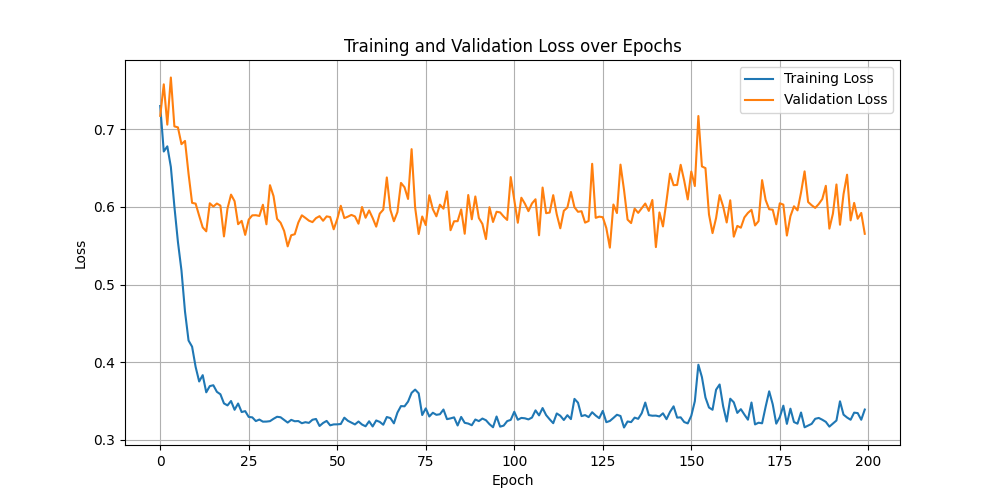
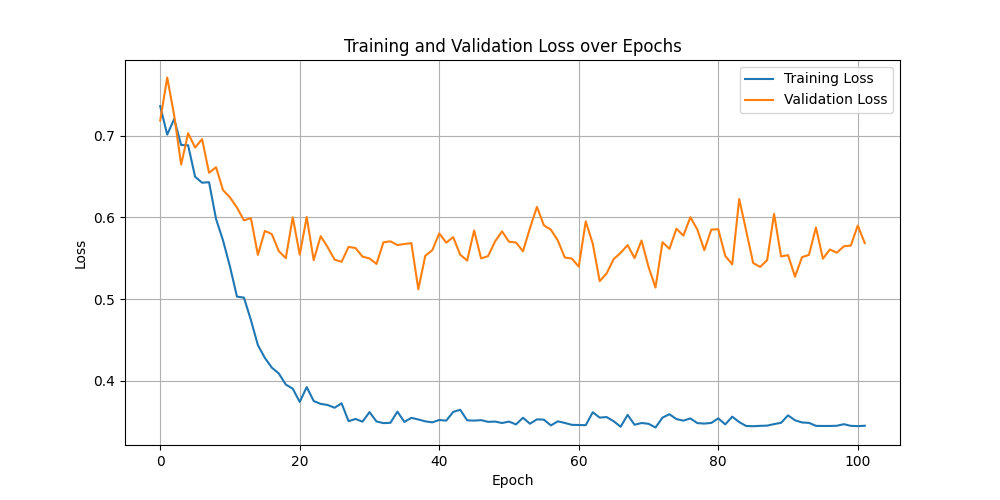
First irst commit

diff --git a/preprocess.py b/preprocess.py
@@ -9,35 +9,7 @@ from visualization import plot_ecg_segment
 
 def extractData(ann_atr, ann_qrs, ecg):
 
-    # ann.sample contains the indices of the QRS annotations
-    qrs_index = ann_qrs.sample
-    max_indices = []
-    for i in range(len(qrs_index) - 1):
-        if qrs_index[i] > len(ecg) or qrs_index[i + 1] > len(ecg):
-            break
-        start_idx = qrs_index[i]
-        end_idx = qrs_index[i + 1]
-        if start_idx < 0:
-            start_idx = 0
-        segment = ecg[start_idx:end_idx]
-        maximum_idx = np.argmax(segment)
-        max_indices.append(start_idx + maximum_idx)
     fs = 250
-    max_indices = np.array(max_indices)
- 
-# Set labels
-    ground_truth_full = np.zeros(len(ecg), dtype=int)
-    ground_truth_index = ann_atr.sample
-    for i in range(len(ground_truth_index) - 1):
-        ground_idx1 = np.searchsorted(max_indices, ground_truth_index[i], side='right')
-        ground_idx2 = np.searchsorted(max_indices, ground_truth_index[i + 1], side='right')
-        label = ann_atr.aux_note[i].replace('(', '').replace(')', '')
-        if label == 'AFIB':
-            ground_truth_full[ground_idx1:ground_idx2] = 1
-        else:
-            ground_truth_full[ground_idx1:ground_idx2] = 0
-
-    # 5 second segment
     # Define the segment length in samples (5 seconds per segment)
     segment_length = int(5 * fs)  
     # Calculate the number of segments
@@ -53,18 +25,17 @@ def extractData(ann_atr, ann_qrs, ecg):
 
         # Extract the ECG segment (both channels)
         segment = ecg[start_idx:end_idx]
-        # filter_segment = elliptical_bandpass_filter(segment)
-        temp = ground_truth_full[start_idx:end_idx]
-        label = 0
-        if np.sum(temp) >= (len(temp)/2):
-            label = 1
-            # plot_ecg_segment(segment, "AF")
-        else:
-            label = 0
-            # plot_ecg_segment(segment, "non-AF")
-            
-        all_segments.append(segment)
-        all_labels.append(label)
+        for j in range(len(ann_atr.sample)):
+            if start_idx <= ann_atr.sample[j] < end_idx:
+                label_note = ann_atr.aux_note[j][1]
+                if label_note == "N":
+                    label = 0
+                else:
+                    label = 1
+                #    print("start_idx--- atr---- end_idx---- label: ",start_idx, ann.sample[j] , end_idx,label)
+                all_segments.append(segment)
+                all_labels.append(label)
+
     return all_segments, all_labels
 
 def elliptical_bandpass_filter(segment, fs=250, order=10, lowcut=0.5, highcut=50):
@@ -208,16 +179,18 @@ def read_af_data():
     print("all_non_segments: ", len(all_non_segments))   
     total_samples = len(all_AF_labels) 
     print("total_samples: ", total_samples)       
-    # Lấy random index
-    random_indices = random.sample(range(len(all_non_labels)), total_samples)
-    # Lấy mẫu dựa trên chỉ số
-    new_non_labels = [all_non_labels[i] for i in random_indices]
-    new_non_segments = [all_non_segments [i] for i in random_indices]
-    print(" new_non_labels:  ", len(new_non_labels))
+    # # Lấy random index
+    # random_indices = random.sample(range(len(all_non_labels)), total_samples)
+    # # Lấy mẫu dựa trên chỉ số
+    # new_non_labels = [all_non_labels[i] for i in random_indices]
+    # new_non_segments = [all_non_segments [i] for i in random_indices]
+    # print(" new_non_labels:  ", len(new_non_labels))
     
-    all_segments.extend(new_non_segments)
+    # all_segments.extend(new_non_segments)
+    all_segments.extend(all_non_segments)
     all_segments.extend(all_AF_segments)
-    all_labels.extend(new_non_labels)
+    # all_labels.extend(new_non_labels)
+    all_labels.extend(all_non_labels)
     all_labels.extend(all_AF_labels)
     
     # Convert lists to NumPy arrays

diff --git a/train_model.py b/train_model.py
@@ -11,7 +11,7 @@ from torch.utils.data import DataLoader
 CHECKPOINT_DIR = "checkpoints"
 os.makedirs(CHECKPOINT_DIR, exist_ok=True)
 
-PATIENCE = 20  # Stop if training loss doesn't improve for 20 epochs
+PATIENCE = 30  # Stop if training loss doesn't improve for 20 epochs
 
 def get_latest_checkpoint():
     """Find the latest checkpoint file."""
@@ -99,10 +99,10 @@ def train_model(model, train_loader, val_loader, criterion, optimizer, num_epoch
         else:
             no_improve_epochs += 1
 
-        # # Early stopping
-        # if no_improve_epochs >= PATIENCE:
-        #     print(f"Early stopping at epoch {epoch+1}. Best model at epoch {best_epoch} with train loss {best_train_loss:.4f}.")
-        #     break
+        # Early stopping
+        if no_improve_epochs >= PATIENCE:
+            print(f"Early stopping at epoch {epoch+1}. Best model at epoch {best_epoch} with train loss {best_train_loss:.4f}.")
+            break
 
     # Plot training and validation loss
     plt.figure(figsize=(10, 5))
@@ -120,12 +120,14 @@ def train_model(model, train_loader, val_loader, criterion, optimizer, num_epoch
 # Load data
 if __name__ == "__main__":
     # Create an instance of the dataset
-    train_dataset = CustomDataset(data_dir='dataset/train/train.npz',transform=normalize)
-    val_dataset =  CustomDataset(data_dir='dataset/val/val.npz', transform=normalize)
+    train_dataset = CustomDataset(data_dir='dataset/train/train.npz')
+    val_dataset =  CustomDataset(data_dir='dataset/val/val.npz')
     # Create a DataLoader instance to load the dataset in batches
     train_loader = DataLoader(train_dataset, batch_size=32, shuffle=True, num_workers=4)
     val_loader = DataLoader(val_dataset, batch_size=32, shuffle=True, num_workers=4)
     H_in, W_in = 12, 1280
+    # H_in, W_in = 12, 256
+    
     # H_in, W_in = 12, 192
     model = DCNN(H_in, W_in)
     
